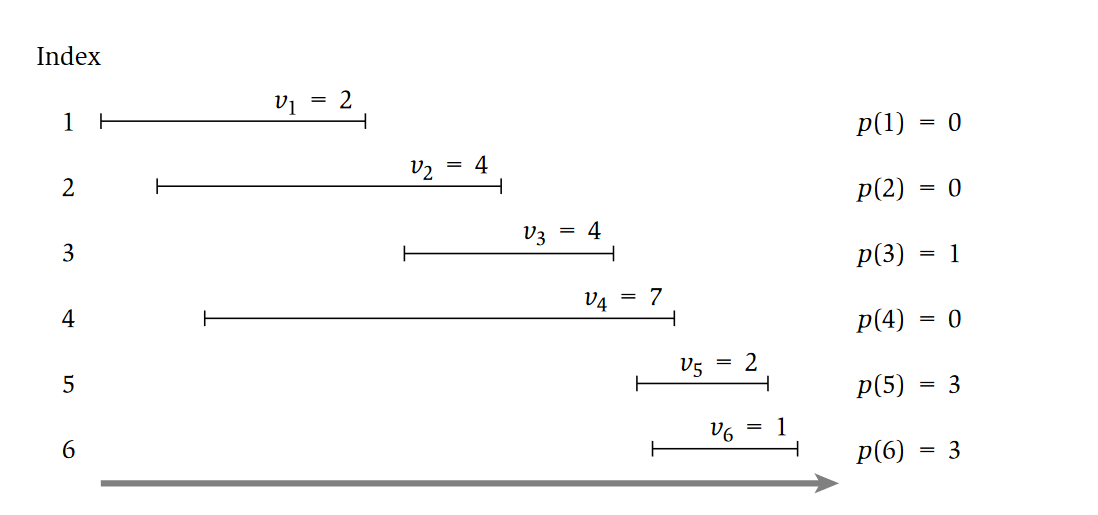
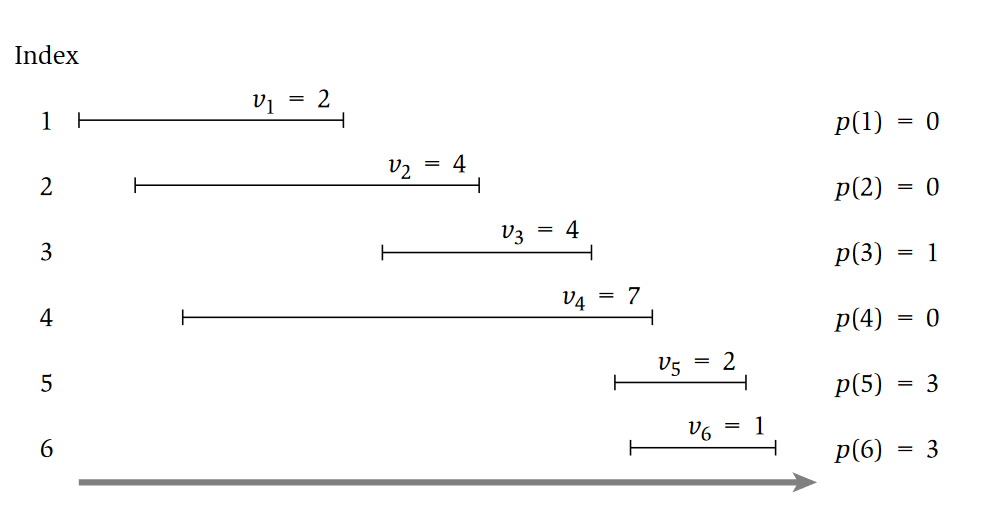
fix: WISP
Ricontrollata sezione Weighted Interval Scheduling Problem e corretti
alcuni errori nelle formule, migliorata un'immagine e l'impaginazione.

diff --git a/magistrale/Anno 1/Advanced and Distributed Algorithms/Pinotti/latex/capitoli/programmazione_dinamica/weighted_interval_scheduling.tex b/magistrale/Anno 1/Advanced and Distributed Algorithms/Pinotti/latex/capitoli/programmazione_dinamica/weighted_interval_scheduling.tex
@@ -6,9 +6,8 @@ ottimale per l'Interval Scheduling Problem, in cui l'obiettivo è
 accettare un insieme di intervalli non sovrapposti il più ampio
 possibile. \textbf{Il Weighted Interval Scheduling Problem} è una
 versione più \textbf{generale}, in cui ogni intervallo ha un certo
-valore (o peso), e vogliamo accettare un insieme di valore massimo.
-\\
-\\
+valore (o peso), e vogliamo accettare un insieme di valore massimo.\\
+
 Questo problema ha l'obiettivo di ottenere un insieme (il più grande
 possibile) di intervalli non sovrapposti (overlapping). Per la versione
 non pesata (Interval Scheduling Problem in cui weight=1) esiste uno
@@ -16,17 +15,12 @@ specifico algoritmo \textbf{Greedy} che è in grado di trovare la
 soluzione ottima, tuttavia nella versione più generale, ovvero la
 versione pesata (\textbf{il Weighted Interval Scheduling Problem},
 weight $\neq$ 1), è necessario utilizzare la programmazione dinamica.
-\\
-\\
-
 
 \begin{figure}[H]
       \includegraphics[width=\textwidth]{capitoli/programmazione_dinamica/imgs/weigted_interval_scheduling.png}
       \centering
       \caption{Un esempio di weighted interval scheduling}
-      %\label{fig:wis}
 \end{figure}
-
 
 \section{Descrizione del problema}
 
@@ -46,8 +40,7 @@ weight $\neq$ 1), è necessario utilizzare la programmazione dinamica.
             intervallo compatibile con l'intervallo $j$, considerando il fatto
             che gli intervalli sono ordinati in ordine non decrescente in base a
             $f_i$
-      \item
-            $\mathcal{O}_j$: rappresenta la soluzione ottima al problema
+      \item $\mathcal{O}_j$: rappresenta la soluzione ottima al problema
             calcolato sull'insieme $\{1, \ldots, j\}$
       \item
             $OPT(j)$: rappresenta il valore della soluzione ottima
@@ -56,19 +49,16 @@ weight $\neq$ 1), è necessario utilizzare la programmazione dinamica.
 
 \begin{figure}[H]
       \centering
-      \includegraphics[width=15cm, keepaspectratio]{capitoli/programmazione_dinamica/imgs/wis_instance.png}
+      \includegraphics[width=14cm, keepaspectratio]{capitoli/programmazione_dinamica/imgs/wis_instance.png}
       \caption{Si può vedere come funziona effettivamente la funzione $p(i)$}
 \end{figure}
 
-\subsection{Goal:}
+\subsection{Goal}
 
-\begin{itemize}
-      \item L'obiettivo del problema attuale è quello di trovare un sottoinsieme
-            $S \subseteq \{1, \ldots, n\}$ di intervalli mutualmente compatibili
-            che vanno a massimizzare la somma dei pesi degli intervalli
-            selezionati $\sum_{i \in S} v_i$.
-\end{itemize}
-
+L'obiettivo del problema attuale è quello di trovare un sottoinsieme
+$S \subseteq \{1, \ldots, n\}$ di intervalli mutualmente compatibili
+che vanno a massimizzare la somma dei pesi degli intervalli
+selezionati $\sum_{i \in S} v_i$.
 
 \section{Greedy Version; Earliest Finish Time First}
 
@@ -240,23 +230,18 @@ resto del capitolo, svilupperemo algoritmi di programmazione dinamica
 usando il secondo tipo di approccio (costruzione iterativa di
 sottoproblemi) perché gli algoritmi sono spesso più semplici da
 esprimere in questo modo.
+\newpage
 
 \section{Riepilogo}
 
 \begin{itemize}
-      \item
-            $OPT[j] = \max_{v_j}+OPT[p_j],OPT[j-1]$
-      \item
-            Per ogni $j$ scelgo se prenderlo o meno
-      \item
-            Alcuni sottoproblemi vengono scartati (quelli che si sovrappongono al
+      \item $OPT[j] = \max(v_j+OPT[p_j],OPT[j-1])$
+      \item Per ogni $j$ scelgo se prenderlo o meno
+      \item Alcuni sottoproblemi vengono scartati (quelli che si sovrappongono al
             $j$ scelto)
-      \item
-            Per ogni scelta ho due possibilità: \textbf{TEMPO =} $O(n \log n)$
-      \item
-            Lo spazio è un vettore di $OPT[j]$: \textbf{SPAZIO =} $O(n)$
-      \item
-            Per ricostruire la soluzione uso un vettore dove per ogni $j$ ho un
+      \item Per ogni scelta ho due possibilità: \textbf{TEMPO =} $O(n \log n)$
+      \item Lo spazio è un vettore di $OPT[j]$: \textbf{SPAZIO =} $O(n)$
+      \item Per ricostruire la soluzione uso un vettore dove per ogni $j$ ho un
             valore booleano che indica se il job fa parte della soluzione:
             \textbf{SPAZIO\_S =} $O(n)$
 \end{itemize}
